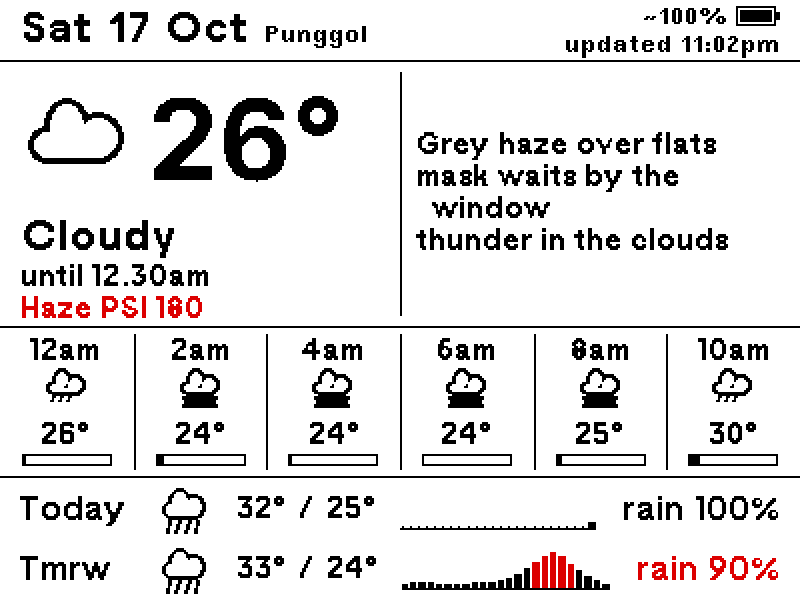
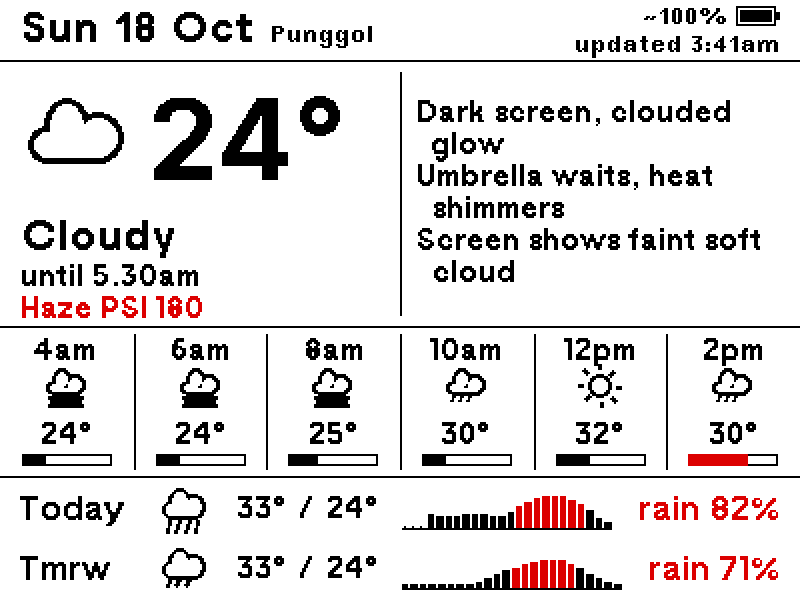
Screenshots: dashboard-glance uses a fictional agenda, never real calendar data

diff --git a/tools/screenshots.py b/tools/screenshots.py
@@ -1,7 +1,11 @@
-"""Regenerate the README screenshots from live data: docs/images/<layout>.png at 2x (pixel-exact).
+"""Regenerate the README screenshots: docs/images/<layout>.png at 2x (pixel-exact).
 
   uv run python tools/screenshots.py
+
+Weather is live. The calendar and reminders are NOT: the repo is public, so dashboard-glance is
+drawn from the made-up agenda below, never from macOS Calendar or the reminders export.
 """
+import datetime as dt
 import sys
 from pathlib import Path
 
@@ -9,10 +13,52 @@ ROOT = Path(__file__).resolve().parent.parent
 sys.path.insert(0, str(ROOT))
 from PIL import Image  # noqa: E402
 
-from eink.cli import SCREENS, build, load_config  # noqa: E402
+from eink.cli import SCREENS, build, last_battery, load_config  # noqa: E402
 from epd.image import preview  # noqa: E402
+from layouts import dashboard_glance  # noqa: E402
+from sources import events, weather  # noqa: E402
 
 OUT = ROOT / "docs" / "images"
+
+
+def sample_agenda(today: dt.date) -> tuple[dict, list[dict], dict]:
+    """(calendar export, reminders, [calendar] config) for a plausible, fictional week."""
+    def at(days: int, hm: str) -> str:
+        return f"{today + dt.timedelta(days=days)}T{hm}:00"
+
+    def ev(title, cal, days, start, end, all_day=False):
+        return {"title": title, "calendar": cal, "start": at(days, start), "end": at(days, end),
+                "all_day": all_day, "my_status": "none"}
+
+    cal = {"generated_at": None, "stale": False,
+           "calendars": [{"title": "Home", "source": "iCloud"}, {"title": "Work", "source": "Work"},
+                         {"title": dashboard_glance.HOLIDAYS, "source": "Holidays"}],
+           "events": [
+               ev("Dentist", "Home", 0, "10:30", "11:00"),
+               ev("Dinner with Sam", "Home", 0, "19:00", "21:00"),
+               ev("Team standup", "Work", 1, "09:30", "09:45"),
+               ev("Design review", "Work", 1, "14:00", "15:00"),
+               ev("Conference day", "Work", 2, "00:00", "23:59", all_day=True),
+               ev("Yoga", "Home", 2, "18:30", "19:30"),
+               ev("Sprint planning", "Work", 3, "10:00", "11:00"),
+               ev("Parents visit", "Home", 5, "12:00", "15:00"),
+           ]}
+    rems = [{"title": t, "calendar": "Reminders", "start": dt.datetime.fromisoformat(at(d, "00:00")),
+             "end": dt.datetime.fromisoformat(at(d, "00:00")), "all_day": True, "reminder": True}
+            for t, d in (("Renew passport", -2), ("Water the plants", 0), ("Pay utilities bill", 1))]
+    return cal, rems, {"exclude": [], "red_sources": ["Work"]}
+
+
+def dashboard(cfg: dict) -> Image.Image:
+    now = dt.datetime.now()
+    cal, rems, conf = sample_agenda(now.date())
+    data = weather.fetch(cfg["lat"], cfg["lon"]) | {"calendar": cal}
+    real_reminders, real_config = events.reminders, dashboard_glance._config
+    events.reminders, dashboard_glance._config = (lambda path: rems), (lambda: conf)
+    try:
+        return dashboard_glance.render(data, now=now, battery_mv=last_battery())
+    finally:
+        events.reminders, dashboard_glance._config = real_reminders, real_config
 
 
 def main():
@@ -21,7 +67,8 @@ def main():
     for name in SCREENS:
         if name == "auto":
             continue  # shows rain or proverb, which have their own screenshots
-        img = preview(build(name, cfg), red=True, dither=False)  # exactly what the panel gets
+        img = dashboard(cfg) if name == "dashboard-glance" else build(name, cfg)
+        img = preview(img, red=True, dither=False)  # exactly what the panel gets
         img.resize((img.width * 2, img.height * 2), Image.NEAREST).save(OUT / f"{name}.png", optimize=True)
         print("wrote", OUT / f"{name}.png")
 
